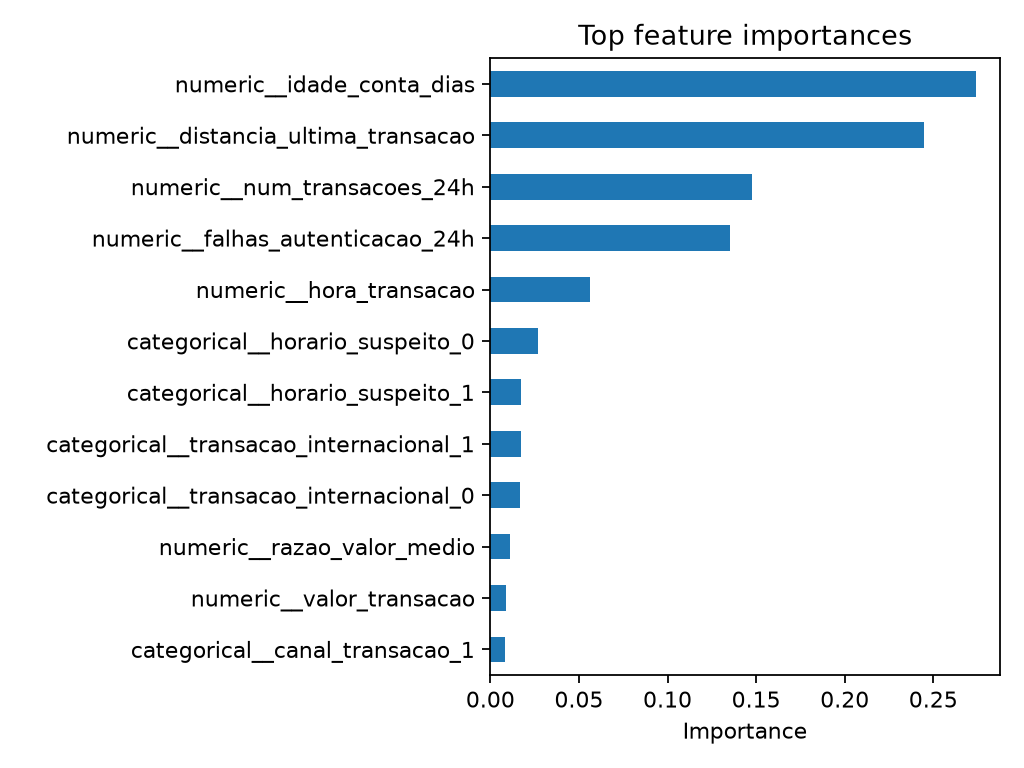
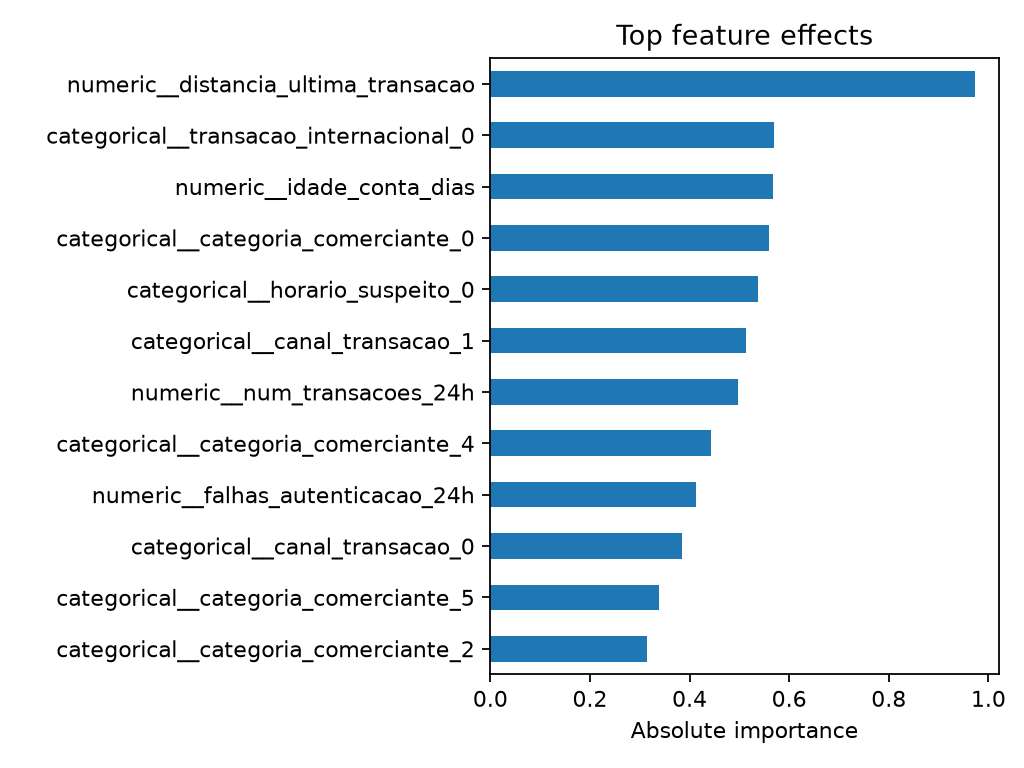
feat: evaluate noisier synthetic data with cross-validation

diff --git a/src/train.py b/src/train.py
@@ -2,11 +2,13 @@ import argparse
 from pathlib import Path
 
 import joblib
+import numpy as np
 import pandas as pd
+from sklearn.base import clone
 from sklearn.dummy import DummyClassifier
 from sklearn.ensemble import GradientBoostingClassifier, RandomForestClassifier
 from sklearn.linear_model import LogisticRegression
-from sklearn.model_selection import train_test_split
+from sklearn.model_selection import StratifiedKFold, train_test_split
 from sklearn.pipeline import Pipeline
 from sklearn.preprocessing import FunctionTransformer
 from sklearn.utils.class_weight import compute_sample_weight
@@ -17,7 +19,6 @@ from src.config import (
     RESULTS_DIR,
     TARGET,
     TEST_SIZE,
-    VALIDATION_SIZE,
 )
 from src.data.collect import RAW_FEATURES, generate_transactions, load_transactions
 from src.evaluate import (
@@ -32,14 +33,9 @@ from src.preprocessing import build_preprocessor
 
 def split_data(data: pd.DataFrame):
     features, target = data[RAW_FEATURES], data[TARGET]
-    train_x, temporary_x, train_y, temporary_y = train_test_split(
-        features, target, test_size=TEST_SIZE + VALIDATION_SIZE, stratify=target, random_state=RANDOM_STATE
+    return train_test_split(
+        features, target, test_size=TEST_SIZE, stratify=target, random_state=RANDOM_STATE
     )
-    validation_x, test_x, validation_y, test_y = train_test_split(
-        temporary_x, temporary_y, test_size=TEST_SIZE / (TEST_SIZE + VALIDATION_SIZE),
-        stratify=temporary_y, random_state=RANDOM_STATE,
-    )
-    return train_x, validation_x, test_x, train_y, validation_y, test_y
 
 
 def build_pipeline(model) -> Pipeline:
@@ -50,30 +46,44 @@ def build_pipeline(model) -> Pipeline:
     ])
 
 
+def fit_model(estimator, features: pd.DataFrame, target: pd.Series) -> Pipeline:
+    fit_params = {"model__sample_weight": compute_sample_weight("balanced", target)} if isinstance(estimator, GradientBoostingClassifier) else {}
+    return build_pipeline(clone(estimator)).fit(features, target, **fit_params)
+
+
+def cross_validated_probabilities(estimator, features: pd.DataFrame, target: pd.Series) -> np.ndarray:
+    probabilities = np.full(len(target), np.nan)
+    folds = StratifiedKFold(n_splits=5, shuffle=True, random_state=RANDOM_STATE)
+    for train_indices, validation_indices in folds.split(features, target):
+        pipeline = fit_model(estimator, features.iloc[train_indices], target.iloc[train_indices])
+        probabilities[validation_indices] = pipeline.predict_proba(features.iloc[validation_indices])[:, 1]
+    assert np.isfinite(probabilities).all()
+    return probabilities
+
+
 def train(data: pd.DataFrame, model_path: Path = MODEL_PATH, results_dir: Path = RESULTS_DIR) -> pd.DataFrame:
-    train_x, validation_x, test_x, train_y, validation_y, test_y = split_data(data)
+    train_x, test_x, train_y, test_y = split_data(data)
     models = {
         "Majority baseline": DummyClassifier(strategy="prior"),
         "Logistic Regression": LogisticRegression(class_weight="balanced", max_iter=1_000, random_state=RANDOM_STATE),
         "Random Forest": RandomForestClassifier(n_estimators=200, class_weight="balanced", n_jobs=-1, random_state=RANDOM_STATE),
         "Gradient Boosting": GradientBoostingClassifier(random_state=RANDOM_STATE),
     }
-    fitted, rows, validation_scores = {}, [], {}
+    fitted, rows = {}, []
     results_dir.mkdir(parents=True, exist_ok=True)
     for name, estimator in models.items():
-        fit_params = {"model__sample_weight": compute_sample_weight("balanced", train_y)} if name == "Gradient Boosting" else {}
-        pipeline = build_pipeline(estimator).fit(train_x, train_y, **fit_params)
-        validation_probability = pipeline.predict_proba(validation_x)[:, 1]
-        threshold, threshold_table = choose_threshold(validation_y, validation_probability)
+        cv_probability = cross_validated_probabilities(estimator, train_x, train_y)
+        threshold, threshold_table = choose_threshold(train_y, cv_probability)
+        cv_pr_auc = metrics_at_threshold(train_y, cv_probability, threshold)["pr_auc"]
+        pipeline = fit_model(estimator, train_x, train_y)
         test_probability = pipeline.predict_proba(test_x)[:, 1]
         metrics = metrics_at_threshold(test_y, test_probability, threshold)
-        rows.append({"model": name, "threshold": threshold, **metrics})
+        rows.append({"model": name, "threshold": threshold, "cv_pr_auc": cv_pr_auc, **{f"test_{key}": value for key, value in metrics.items()}})
         fitted[name] = pipeline
-        validation_scores[name] = metrics_at_threshold(validation_y, validation_probability, threshold)["pr_auc"]
         threshold_table.to_csv(results_dir / f"thresholds_{name.lower().replace(' ', '_')}.csv", index=False)
 
-    results = pd.DataFrame(rows).sort_values("pr_auc", ascending=False).reset_index(drop=True)
-    best_name = max(validation_scores, key=validation_scores.get)
+    results = pd.DataFrame(rows).sort_values("cv_pr_auc", ascending=False).reset_index(drop=True)
+    best_name = results.iloc[0]["model"]
     best_row = results.loc[results["model"].eq(best_name)].iloc[0]
     best_model = fitted[best_name]
     model_path.parent.mkdir(parents=True, exist_ok=True)

diff --git a/src/data/collect.py b/src/data/collect.py
@@ -1,0 +1,66 @@
+from pathlib import Path
+
+import numpy as np
+import pandas as pd
+
+from src.config import RANDOM_STATE, TARGET
+
+RAW_FEATURES = [
+    "valor_transacao", "hora_transacao", "dia_semana", "distancia_ultima_transacao",
+    "num_transacoes_24h", "idade_conta_dias", "tipo_cartao", "canal_transacao",
+    "transacao_internacional", "falhas_autenticacao_24h", "categoria_comerciante",
+    "valor_medio_historico",
+]
+REQUIRED_COLUMNS = ["transaction_id", "timestamp", *RAW_FEATURES, TARGET]
+
+
+def generate_transactions(n_samples: int = 50_000, fraud_ratio: float = 0.01, random_state: int = RANDOM_STATE) -> pd.DataFrame:
+    """Generate a reproducible, imbalanced synthetic transaction dataset."""
+    if n_samples < 100 or not 0 < fraud_ratio < 0.5:
+        raise ValueError("n_samples must be >= 100 and fraud_ratio between 0 and 0.5")
+    rng = np.random.default_rng(random_state)
+    n_fraud = max(1, round(n_samples * fraud_ratio))
+    n_normal = n_samples - n_fraud
+    data = pd.DataFrame({
+        "valor_transacao": np.r_[rng.lognormal(4.5, 1.2, n_normal), rng.lognormal(5.0, 1.4, n_fraud)].clip(1, 10_000),
+        "hora_transacao": np.r_[rng.normal(14, 4, n_normal) % 24, rng.normal(12, 6, n_fraud) % 24].astype(int),
+        "dia_semana": np.r_[rng.choice(7, n_normal, p=[.16, .16, .16, .16, .16, .10, .10]), rng.choice(7, n_fraud, p=[.13, .13, .13, .13, .13, .175, .175])],
+        "distancia_ultima_transacao": np.r_[abs(rng.normal(5, 10, n_normal)), abs(rng.normal(50, 80, n_fraud))].clip(0, 1_000),
+        "num_transacoes_24h": np.r_[rng.poisson(2, n_normal), rng.poisson(4, n_fraud)].clip(0, 50),
+        "idade_conta_dias": np.r_[abs(rng.normal(800, 400, n_normal)), abs(rng.normal(400, 350, n_fraud))].clip(1, 3_650),
+        "tipo_cartao": np.r_[rng.choice(3, n_normal, p=[.4, .5, .1]), rng.choice(3, n_fraud, p=[.3, .5, .2])],
+        "canal_transacao": np.r_[rng.choice(4, n_normal, p=[.3, .4, .1, .2]), rng.choice(4, n_fraud, p=[.45, .25, .075, .225])],
+        "transacao_internacional": np.r_[rng.choice(2, n_normal, p=[.95, .05]), rng.choice(2, n_fraud, p=[.775, .225])],
+        "falhas_autenticacao_24h": np.r_[rng.poisson(.1, n_normal), rng.poisson(1, n_fraud)].clip(0, 20),
+        "categoria_comerciante": np.r_[rng.choice(6, n_normal, p=[.25, .20, .15, .15, .15, .10]), rng.choice(6, n_fraud, p=[.15, .125, .275, .20, .10, .15])],
+        "valor_medio_historico": np.r_[rng.lognormal(4.2, 1.0, n_normal), rng.lognormal(4.1, 1.3, n_fraud)].clip(1, 5_000),
+        TARGET: np.r_[np.zeros(n_normal, dtype=int), np.ones(n_fraud, dtype=int)],
+    })
+    n_noisy = round(n_fraud * .10)
+    if n_noisy:
+        normal_noise = rng.choice(n_normal, n_noisy, replace=False)
+        fraud_noise = rng.choice(np.arange(n_normal, n_samples), n_noisy, replace=False)
+        data.loc[normal_noise, TARGET] = 1
+        data.loc[fraud_noise, TARGET] = 0
+    data = data.sample(frac=1, random_state=random_state).reset_index(drop=True)
+    data.insert(0, "transaction_id", np.arange(1, n_samples + 1))
+    start = pd.Timestamp("2024-01-01", tz="UTC")
+    data.insert(1, "timestamp", start + pd.to_timedelta(rng.integers(0, 30 * 86_400, n_samples), unit="s"))
+    validate_transactions(data)
+    return data
+
+
+def validate_transactions(data: pd.DataFrame) -> None:
+    missing = sorted(set(REQUIRED_COLUMNS) - set(data.columns))
+    if missing:
+        raise ValueError(f"Missing required columns: {', '.join(missing)}")
+    if data[["transaction_id", "timestamp", TARGET]].isna().any().any():
+        raise ValueError("Identifiers, timestamps, and target cannot be missing")
+    if not set(data[TARGET].unique()).issubset({0, 1}):
+        raise ValueError("is_fraud must contain only 0 and 1")
+
+
+def load_transactions(path: str | Path) -> pd.DataFrame:
+    data = pd.read_csv(path, parse_dates=["timestamp"])
+    validate_transactions(data)
+    return data

diff --git a/tests/test_model.py b/tests/test_model.py
@@ -1,15 +1,23 @@
 import joblib
+import numpy as np
 import pytest
 from sklearn.dummy import DummyClassifier
 
 from src.data.collect import RAW_FEATURES, generate_transactions
 from src.predict import predict
-from src.train import build_pipeline, split_data
+from src.train import build_pipeline, cross_validated_probabilities, split_data, train
 
 
-def test_split_is_70_15_15():
+def test_split_is_85_15():
     parts = split_data(generate_transactions(1_000, fraud_ratio=.1))
-    assert [len(part) for part in parts[:3]] == [700, 150, 150]
+    assert [len(part) for part in parts] == [850, 150, 850, 150]
+
+
+def test_cross_validation_predicts_every_training_row():
+    data = generate_transactions(500, fraud_ratio=.1)
+    probabilities = cross_validated_probabilities(DummyClassifier(strategy="prior"), data[RAW_FEATURES], data["is_fraud"])
+    assert len(probabilities) == len(data)
+    assert np.isfinite(probabilities).all()
 
 
 def test_pipeline_predicts_probability():
@@ -31,3 +39,11 @@ def test_saved_model_supports_inference(tmp_path):
 def test_inference_rejects_missing_features(tmp_path):
     with pytest.raises(ValueError, match="Missing required features"):
         predict(generate_transactions(100)[["valor_transacao"]], tmp_path / "unused.joblib")
+
+
+def test_artifact_matches_best_cross_validated_model(tmp_path):
+    model_path = tmp_path / "model.joblib"
+    results = train(generate_transactions(500, fraud_ratio=.1), model_path, tmp_path / "results")
+    artifact = joblib.load(model_path)
+    assert artifact["model_name"] == results.iloc[0]["model"]
+    assert artifact["threshold"] == results.iloc[0]["threshold"]

diff --git a/src/evaluate.py b/src/evaluate.py
@@ -81,12 +81,12 @@ def save_dataset_plots(data: pd.DataFrame, pipeline, output_dir: str | Path) -> 
     model = pipeline.named_steps["model"]
     importance = getattr(model, "feature_importances_", None)
     if importance is None:
-        return
+        importance = np.abs(model.coef_[0])
     names = pipeline.named_steps["preprocessing"].get_feature_names_out()
     top = pd.Series(importance, index=names).nlargest(12).sort_values()
     top.plot.barh()
-    plt.xlabel("Importance")
-    plt.title("Top feature importances")
+    plt.xlabel("Absolute importance")
+    plt.title("Top feature effects")
     plt.tight_layout()
     plt.savefig(output_dir / "feature_importance.png", dpi=160)
     plt.close()

diff --git a/tests/test_preprocessing.py b/tests/test_preprocessing.py
@@ -27,3 +27,9 @@ def test_generated_data_is_reproducible():
 
 def test_generated_data_is_imbalanced():
     assert generate_transactions(1_000, fraud_ratio=.02)["is_fraud"].mean() == .02
+
+
+def test_generated_classes_overlap():
+    data = generate_transactions(10_000, fraud_ratio=.1)
+    central = data["valor_transacao"].between(50, 150) & data["num_transacoes_24h"].between(1, 4)
+    assert set(data.loc[central, "is_fraud"]) == {0, 1}

diff --git a/src/data/__init__.py b/src/data/__init__.py
@@ -1,0 +1,3 @@
+from .collect import generate_transactions, load_transactions, validate_transactions
+
+__all__ = ["generate_transactions", "load_transactions", "validate_transactions"]

diff --git a/src/config.py b/src/config.py
@@ -2,7 +2,6 @@ from pathlib import Path
 
 RANDOM_STATE = 42
 TEST_SIZE = 0.15
-VALIDATION_SIZE = 0.15
 TARGET = "is_fraud"
 
 ROOT = Path(__file__).resolve().parents[1]

diff --git a/README.md b/README.md
@@ -1,6 +1,6 @@
 # Fraud Detection
 
-An end-to-end **binary classification** project that predicts **fraud vs. non-fraud** in financial transactions. It demonstrates a reproducible ML workflow for imbalanced data: validated collection, in-pipeline feature engineering and preprocessing, train/validation/test isolation, baseline comparison, threshold selection, error analysis, and saved-model inference.
+An end-to-end **binary classification** project that predicts **fraud vs. non-fraud** in financial transactions. It demonstrates a reproducible ML workflow for imbalanced data: validated collection, in-pipeline feature engineering and preprocessing, cross-validation, untouched-test evaluation, threshold selection, error analysis, and saved-model inference.
 
 ## Problem
 
@@ -12,18 +12,18 @@ The project prioritizes fraud-class **precision**, **recall**, **F1**, **PR-AUC*
 
 The repository uses a reproducible synthetic dataset so it can be run without credentials or private financial data. The default experiment creates 50,000 transactions with 1% fraud and 12 raw features describing amount, time, recent activity, account age, card/channel, location, authentication failures, merchant category, and historical spending.
 
-The generator encodes plausible differences between classes. This makes the repository useful for demonstrating methodology, not for claiming production fraud performance.
+The generator uses overlapping class distributions and swaps 10% of fraud labels with the same number of normal labels. This preserves prevalence while avoiding an unrealistically separable benchmark. The repository demonstrates methodology; it does not claim production fraud performance.
 
 ## Architecture
 
 ```mermaid
 flowchart LR
     A[Raw or synthetic data] --> B[Schema validation]
-    B --> C[70/15/15 split]
-    C --> D[Feature engineering]
+    B --> C[85/15 development/test split]
+    C --> D[5-fold stratified cross-validation]
     D --> E[Imputation + encoding + scaling]
     E --> F[Model training]
-    F --> G[Validation threshold selection]
+    F --> G[Out-of-fold threshold selection]
     G --> H[One-time test evaluation]
     F --> I[Saved pipeline]
     I --> J[Inference]
@@ -47,7 +47,7 @@ Three domain features are derived in [`src/features.py`](src/features.py): trans
 
 ## Class imbalance
 
-The majority-class dummy classifier establishes the no-skill baseline. Logistic Regression and Random Forest use balanced class weights; Gradient Boosting receives balanced sample weights. No synthetic oversampling is used. Every probabilistic model is evaluated over validation thresholds from 0.10 to 0.90.
+The majority-class dummy classifier establishes the no-skill baseline. Logistic Regression and Random Forest use balanced class weights; Gradient Boosting receives balanced sample weights. No synthetic oversampling is used. Every probabilistic model is evaluated over out-of-fold thresholds from 0.10 to 0.90.
 
 ## Models
 
@@ -58,20 +58,20 @@ The experiment intentionally compares only four useful reference points:
 3. Random Forest
 4. Gradient Boosting
 
-The best model is selected by validation PR-AUC. Its classification threshold is selected by validation F1, and the untouched test set is used once for the reported metrics.
+The best model is selected by out-of-fold PR-AUC from five-fold stratified cross-validation. Its classification threshold maximizes out-of-fold F1, then the model is refitted on the full development set and evaluated once on the untouched test set.
 
 ## Evaluation and results
 
-These results were produced by `python -m src.train --samples 50000` with seed 42 and a stratified 70%/15%/15% split (7,500 test transactions, including 75 frauds).
+These results were produced by `python -m src.train --samples 50000` with seed 42, five-fold stratified cross-validation on 85% of the data, and a 15% test split (7,500 transactions, including 75 frauds).
 
-| Model | Threshold | Precision | Recall | F1 | PR-AUC | ROC-AUC |
-|---|---:|---:|---:|---:|---:|---:|
-| Gradient Boosting | 0.50 | 0.9740 | 1.0000 | 0.9868 | 0.9998 | 1.0000 |
-| Random Forest | 0.25 | 0.9615 | 1.0000 | 0.9804 | 0.9981 | 1.0000 |
-| Logistic Regression | 0.65 | 0.9737 | 0.9867 | 0.9801 | 0.9923 | 0.9999 |
-| Majority baseline | 0.10 | 0.0000 | 0.0000 | 0.0000 | 0.0100 | 0.5000 |
+| Model | Threshold | CV PR-AUC | Test precision | Test recall | Test F1 | Test PR-AUC | Test ROC-AUC |
+|---|---:|---:|---:|---:|---:|---:|---:|
+| Logistic Regression | 0.90 | 0.7166 | 0.7941 | 0.7200 | 0.7552 | 0.7877 | 0.9685 |
+| Random Forest | 0.35 | 0.6820 | 0.7971 | 0.7333 | 0.7639 | 0.7882 | 0.9646 |
+| Gradient Boosting | 0.90 | 0.6641 | 0.7162 | 0.7067 | 0.7114 | 0.7517 | 0.9662 |
+| Majority baseline | 0.10 | 0.0100 | 0.0000 | 0.0000 | 0.0000 | 0.0100 | 0.5000 |
 
-The validation search selected Random Forest at threshold **0.25**. Although Gradient Boosting ranks first in the table above, those are untouched test metrics; model selection used validation PR-AUC. Full threshold tables and raw metrics are stored in [`results/`](results/).
+Cross-validation selected Logistic Regression at threshold **0.90**. Random Forest scored slightly higher on test PR-AUC and F1, but the test set did not participate in model or threshold selection. Full out-of-fold threshold tables and raw metrics are stored in [`results/`](results/).
 
 ![Class distribution](results/class_distribution.png)
 
@@ -83,7 +83,7 @@ The validation search selected Random Forest at threshold **0.25**. Although Gra
 
 ## Error analysis
 
-The selected model produced 7,422 true negatives, 3 false positives, 0 false negatives, and 75 true positives on the synthetic test set.
+The selected model produced 7,411 true negatives, 14 false positives, 21 false negatives, and 54 true positives on the synthetic test set.
 
 - A **false positive** can block a legitimate transaction, harm customer experience, and add review cost.
 - A **false negative** lets fraud pass, creating financial and operational risk.
@@ -124,7 +124,7 @@ ruff check .
 python -m pytest -q
 ```
 
-The 11 focused tests cover deterministic collection, imbalance, missing values, unknown categories, feature calculations, split proportions, pipeline probabilities, model loading, inference shape, and invalid inputs. GitHub Actions runs Ruff and pytest on pushes and pull requests.
+The 14 focused tests cover deterministic collection, class overlap, imbalance, missing values, unknown categories, feature calculations, split proportions, cross-validation coverage, artifact selection, model loading, inference shape, and invalid inputs. GitHub Actions runs Ruff and pytest on pushes and pull requests.
 
 ## Project structure
 
@@ -149,7 +149,7 @@ The 11 focused tests cover deterministic collection, imbalance, missing values, 
 
 ## Limitations
 
-- Synthetic data is easier and cleaner than production transaction streams, so the high scores should not be interpreted as production readiness.
+- Synthetic data remains easier than production transaction streams, so these scores should not be interpreted as production readiness.
 - The generated timestamp is not tied to behavioral drift; a random stratified split is appropriate here, while real temporal data should use chronological validation and backtesting.
 - Fraud prevalence, feature availability, and error costs differ by institution and market.
 - The model is not calibrated, monitored for drift, or evaluated for fairness.
